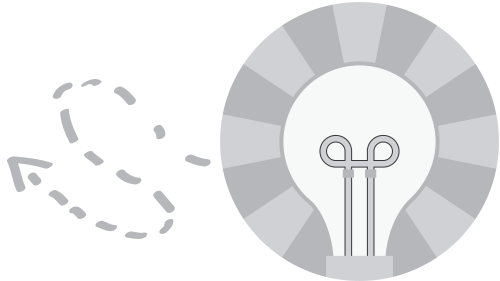
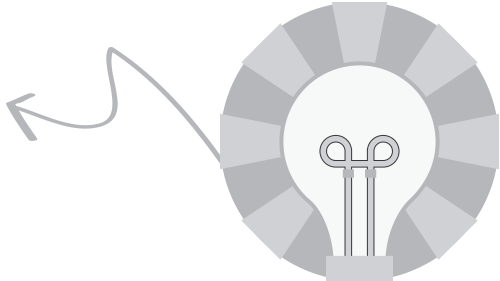
add ajuste bulb.png

diff --git a/assets/styles.css b/assets/styles.css
@@ -59,8 +59,8 @@ a.BtnCta{
 }
 
 a:hover.BtnCta{
-    color: #fff;
-    background: #21afb9;
+    color: #21afb9;
+    background: #fff;
     border-bottom: 4px solid #1ebbc6;
 }
 
@@ -162,9 +162,27 @@ p.Servicos{
     width: 370px;
 }
 
+.CtaContato{
+    background-color: #13A7C7;
+}
+
+.CtaContent{
+    background: url(images/arrow.png) 250px 50px no-repeat;
+}
+
+.CtaContato p{
+    color: #fff;
+    font-size: 18px;
+    margin-bottom: 20px;
+}
+
 #footer{
     background-color: #363636;
     padding: 50px 0 50px 0;
+}
+
+#footer h1, #footer h2{
+    color: #fff;
 }
 
 #footer p{
@@ -180,15 +198,6 @@ p.Servicos{
     display: inline-block;
 }
 
-.CtaContent{
-    background: rgba(255, 255, 255, 0.19) url(images/arrow.png) 150px 50px no-repeat;
-    width: 900px;
-    min-height: 100px;
-    display: inline-block;
-    margin-top: 50px;
-    padding: 20px;
-    border: 1px solid #27b899;
-}
 
 .SocialFooterTwitter{
     margin-bottom: 20px;

diff --git a/index.html b/index.html
@@ -102,13 +102,16 @@
                 <img class="Bulb" src="assets/images/bulb.png"> 
             </div>
         </div>    
+    </section> 
+    <section class="CtaContato">
+        <div class="container row text-center">
+            <div class="CtaContent">
+                <p>Transforme ideias em impressionantes produtos</p>
+                <a href="#" class="BtnCta">Quanto custa o meu projeto</a>
+            </div>
+        </div>
     </section>  
-<!--
-    <div class="CtaContent">
-        <p>Transforme ideias em impressionantes produtos</p>
-        <a href="#" class="BtnCta">Quanto custa o meu projeto</a>
-    </div>
--->
+      
     <footer id="footer">
         <div class="container row text-center">    
             <article>
